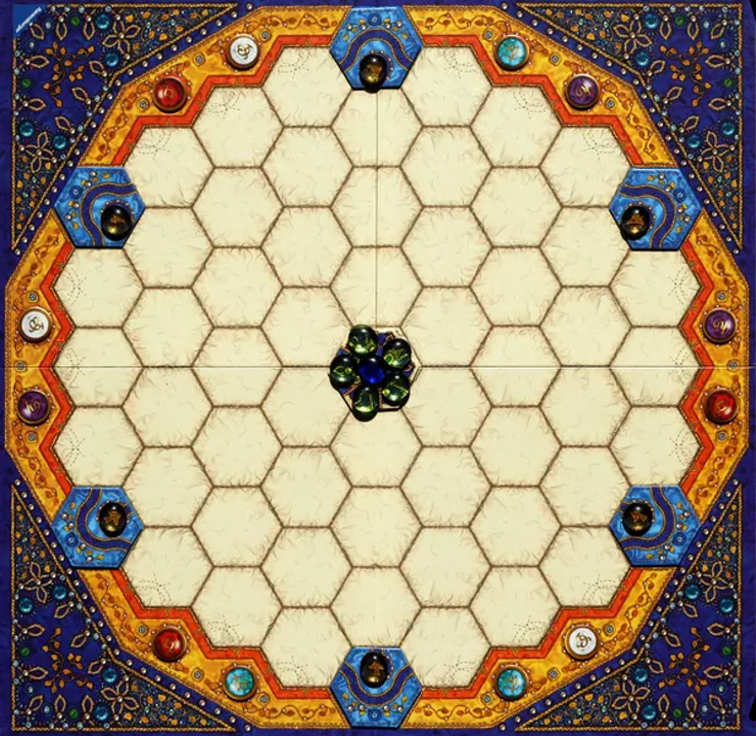
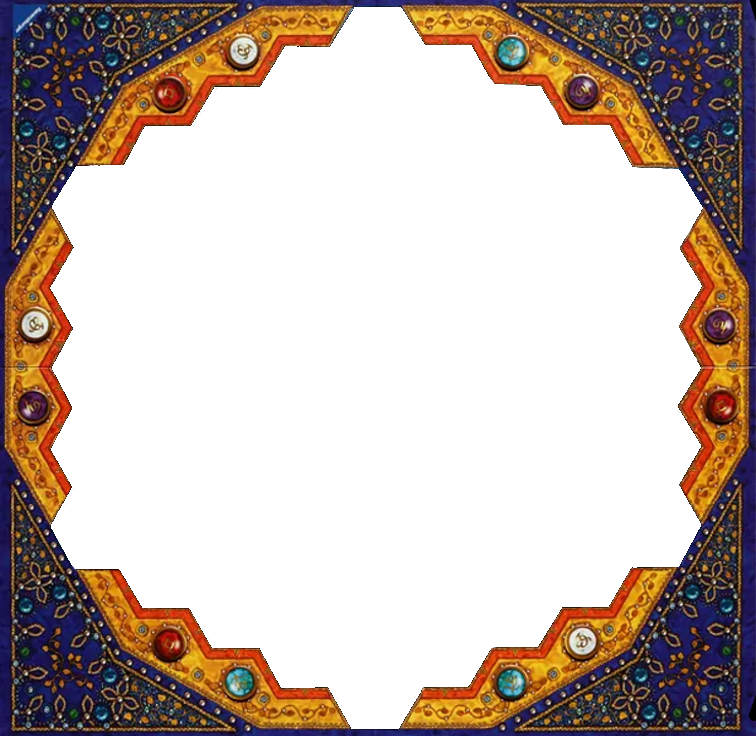
made board background transparent, added gate colors, made ai speed selection realistic

diff --git a/src/main/kotlin/view/MainGameScene.kt b/src/main/kotlin/view/MainGameScene.kt
@@ -604,13 +604,13 @@ class MainGameScene(private val rootService: RootService) : BoardGameScene(2160,
      *  Background Image for the board
      */
     private var boardBackground = Label(
-        posX = firstPlayerHeldTileView.posX + 120,
-        posY = firstPlayerHeldTileView.posY - 120,
+        posX = firstPlayerHeldTileView.posX + 123,
+        posY = firstPlayerHeldTileView.posY - 122,
         width = 1110,
         height = 1090,
         visual = ImageVisual("board_background.png"),
         alignment = Alignment.CENTER
-    )
+    )//.apply { isVisible = false }
 
     // background image with black overlay
     private val blackOverlay = ColorVisual(color = Color.black).apply { transparency = 0.7 }
@@ -628,6 +628,151 @@ class MainGameScene(private val rootService: RootService) : BoardGameScene(2160,
     ).apply {
         rotation = 30.0
     }
+
+    /**
+     *  Displays the first gates color one
+     */
+    private var gateOneOne = Label(
+        posX = 1375,
+        posY = 45,
+        width = 60,
+        height = 60,
+        visual = ImageVisual("color_white.png"),
+        text = "1_1"
+    )
+
+    /**
+     *  Displays the first gates color two
+     */
+    private var gateOneTwo = Label(
+        posX = 1480,
+        posY = 104,
+        width = 60,
+        height = 60,
+        visual = ImageVisual("color_white.png"),
+        text = "1_2"
+    )
+
+    /**
+     *  Displays the second gates color one
+     */
+    private var gateTwoOne = Label(
+        posX = 1678,
+        posY = 452,
+        width = 60,
+        height = 60,
+        visual = ImageVisual("color_white.png"),
+        text = "2_1"
+    )
+
+    /**
+     *  Displays the second gates color two
+     */
+    private var gateTwoTwo = Label(
+        posX = 1678,
+        posY = 570,
+        width = 60,
+        height = 60,
+        visual = ImageVisual("color_white.png"),
+        text = "2_2"
+    )
+
+    /**
+     *  Displays the third gates color one
+     */
+    private var gateThreeOne = Label(
+        posX = 1477,
+        posY = 920,
+        width = 60,
+        height = 60,
+        visual = ImageVisual("color_white.png"),
+        text = "3_1"
+    )
+
+    /**
+     *  Displays the third gates color two
+     */
+    private var gateThreeTwo = Label(
+        posX = 1374,
+        posY = 979,
+        width = 60,
+        height = 60,
+        visual = ImageVisual("color_white.png"),
+        text = "3_2"
+    )
+
+    /**
+     *  Displays the fourth gates color one
+     */
+    private var gateFourOne = Label(
+        posX = 975,
+        posY = 980,
+        width = 60,
+        height = 60,
+        visual = ImageVisual("color_white.png"),
+        text = "4_1"
+    )
+
+    /**
+     *  Displays the fourth gates color two
+     */
+    private var gateFourTwo = Label(
+        posX = 870,
+        posY = 921,
+        width = 60,
+        height = 60,
+        visual = ImageVisual("color_white.png"),
+        text = "4_2"
+    )
+
+    /**
+     *  Displays the fifth gates color one
+     */
+    private var gateFiveOne = Label(
+        posX = 675,
+        posY = gateTwoOne.posY,
+        width = 60,
+        height = 60,
+        visual = ImageVisual("color_white.png"),
+        text = "5_1"
+    )
+
+    /**
+     *  Displays the fifth gates color two
+     */
+    private var gateFiveTwo = Label(
+        posX = 675,
+        posY = gateTwoTwo.posY,
+        width = 60,
+        height = 60,
+        visual = ImageVisual("color_white.png"),
+        text = "5_2"
+    )
+
+    /**
+     *  Displays the sixth gates color one
+     */
+    private var gateSixOne = Label(
+        posX = gateFourTwo.posX + 2,
+        posY = gateOneTwo.posY + 2,
+        width = 60,
+        height = 60,
+        visual = ImageVisual("color_white.png"),
+        text = "6_1"
+    )
+
+    /**
+     *  Displays the sixth gates color two
+     */
+    private var gateSixTwo = Label(
+        posX = gateFourOne.posX,
+        posY = gateOneOne.posY,
+        width = 60,
+        height = 60,
+        visual = ImageVisual("color_white.png"),
+        text = "6_2"
+    )
+
 
     /**
      *  Variable for storing whether the illegal Tiles should be shown or not.
@@ -1004,7 +1149,19 @@ class MainGameScene(private val rootService: RootService) : BoardGameScene(2160,
             firstPlayerNameLabel,
             secondPlayerNameLabel,
             thirdPlayerNameLabel,
-            fourthPlayerNameLabel
+            fourthPlayerNameLabel,
+            gateOneOne,
+            gateOneTwo,
+            gateTwoOne,
+            gateTwoTwo,
+            gateThreeOne,
+            gateThreeTwo,
+            gateFourOne,
+            gateFourTwo,
+            gateFiveOne,
+            gateFiveTwo,
+            gateSixOne,
+            gateSixTwo
         )
 
         firstPlayerColor.apply {

diff --git a/src/main/kotlin/view/NewGameMenuScene.kt b/src/main/kotlin/view/NewGameMenuScene.kt
@@ -690,7 +690,7 @@ class NewGameMenuScene : MenuScene(1920, 1080), Refreshable {
         height = 40,
         posX = playerColorLabel.posX + 10,
         posY = fourthPlayerNameField.posY + 120,
-        items = listOf("50 ms", "100 ms", "150 ms", "200 ms", "500 ms"),
+        items = listOf("3000 ms", "5000 ms", "7000 ms", "10000 ms"),
         prompt = "  Select AI Speed:",
         font = Font(size = 20, fontWeight = Font.FontWeight.SEMI_BOLD)
     ).apply {
